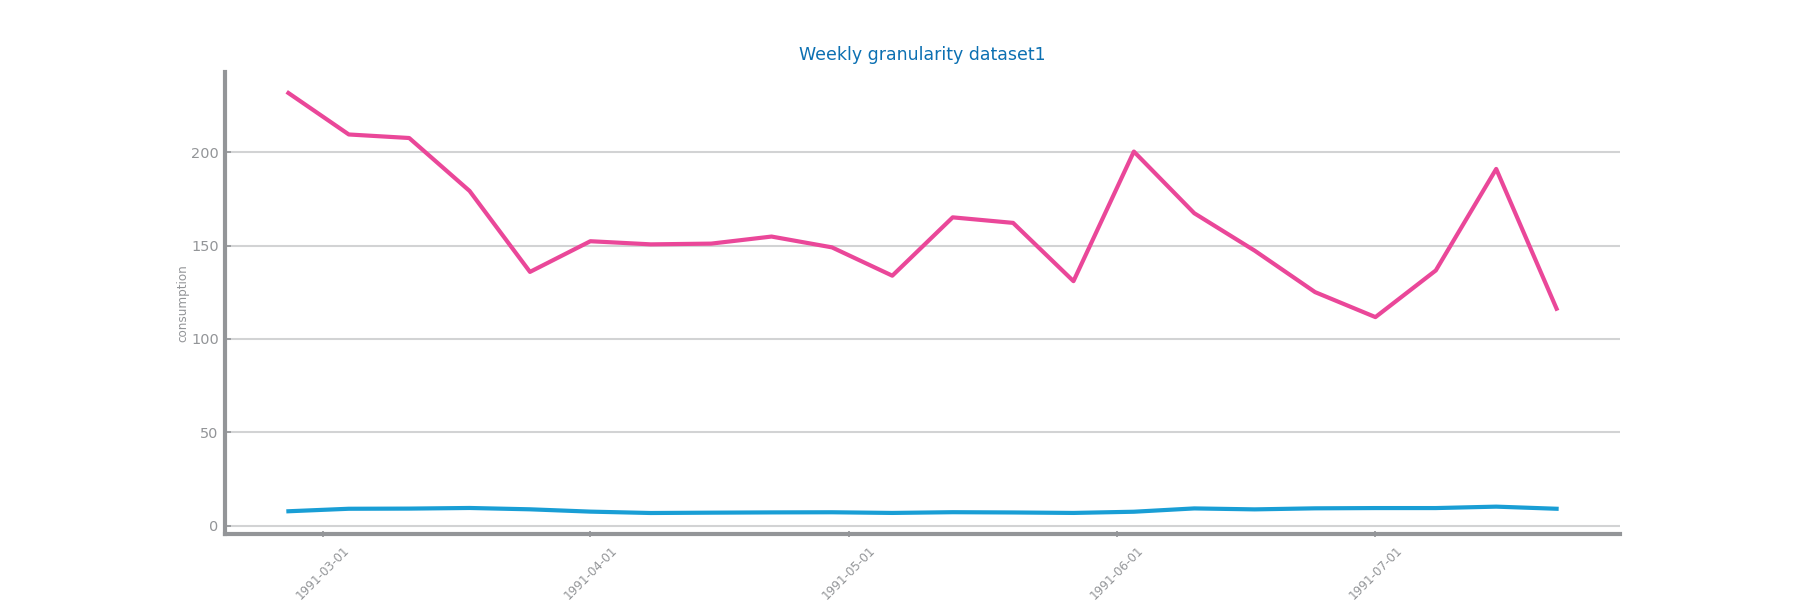
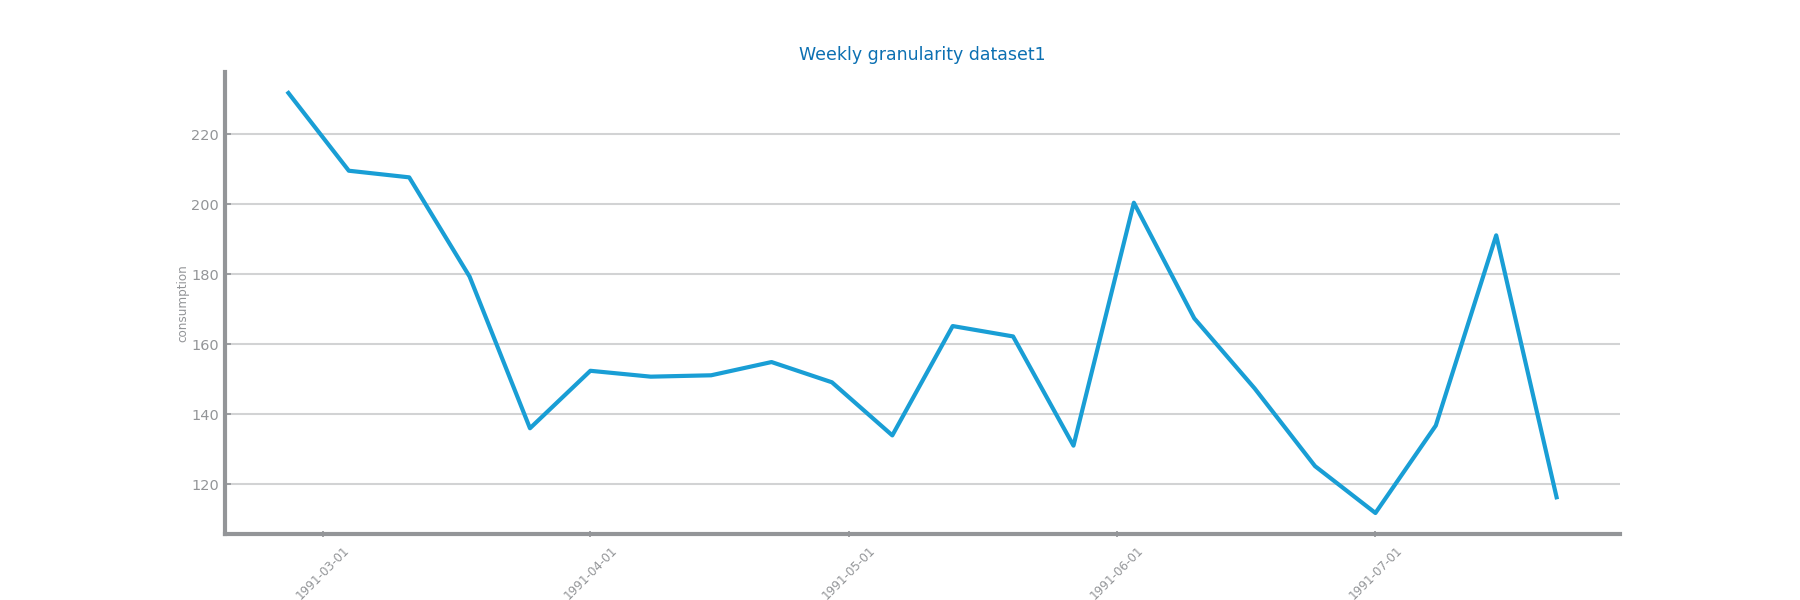
granularity + stationarity for target only

Changed region(s): [[0.0933, 0.15, 0.9022, 0.9]]

diff --git a/forecasting/time_series_profiling.py b/forecasting/time_series_profiling.py
@@ -3,12 +3,13 @@ from matplotlib.pyplot import figure, xticks, show, savefig
 from ts_functions import plot_series, HEIGHT
 from numpy import ones
 from pandas import Series
-
+import pandas
 
 #dimensionality
 
 
 def main(data, dataset):
+    gran_hourly(data, dataset)
     gran_daily(data, dataset)
     gran_weekly(data, dataset)
     gran_monthly(data, dataset)
@@ -25,6 +26,15 @@ def gran_daily(data, dataset):
     savefig('images/time_series/data_profiling/'+dataset+'/daily granularity.png')
     # show()
 
+def gran_hourly(data, dataset):
+    index = data.index.to_period('h')
+    hour_df = data.copy().groupby(index).mean()
+    hour_df['timestamp'] = index.drop_duplicates().to_timestamp()
+    hour_df.set_index('timestamp', drop=True, inplace=True)
+    figure(figsize=(3 * HEIGHT, HEIGHT))
+    plot_series(hour_df, title='Hourly granularity '+dataset, x_label='timestamp', y_label='consumption')
+    xticks(rotation=45)
+    savefig('images/time_series/data_profiling/' + dataset + '/Hourly granularity.png')
 def gran_weekly(data, dataset):
     index = data.index.to_period('W')
     week_df = data.copy().groupby(index).mean()
@@ -56,11 +66,7 @@ def gran_quarterly(data, dataset):
     savefig('images/time_series/data_profiling/' + dataset + '/quarterly granularity.png')
     # show()
 
-#boxplots
 
-#histograms
-
-#stationary study
 def stationarity_study_1(data, dataset):
 
     for var in data:
@@ -78,11 +84,14 @@ def stationarity_study_1(data, dataset):
 
 
 
-data = read_csv('data/forecasting/glucose.csv', index_col='Date', sep=',', decimal='.', parse_dates=True, dayfirst=True, infer_datetime_format=True)
-main(data, 'dataset1')
+# data = read_csv('data/forecasting/glucose.csv', index_col='Date', sep=',', decimal='.', parse_dates=True, dayfirst=True, infer_datetime_format=True)
+# onlytarget_1 = data.drop(['Insulin'], axis=1)
+#
+# main(onlytarget_1, 'dataset1')
 
-# data = read_csv('data/forecasting/drought.forecasting_dataset.csv', index_col='date', sep=',', decimal='.', parse_dates=True, dayfirst=True, infer_datetime_format=True)
-# main(data, 'dataset2')
+data = read_csv('data/forecasting/drought.forecasting_dataset.csv', index_col='date', sep=',', decimal='.', parse_dates=True, dayfirst=True, infer_datetime_format=True)
+onlytarget_2 = pandas.DataFrame(data['QV2M'])
+main(onlytarget_2, 'dataset2')
 
 
 print('nr of records:', data.shape[0])
